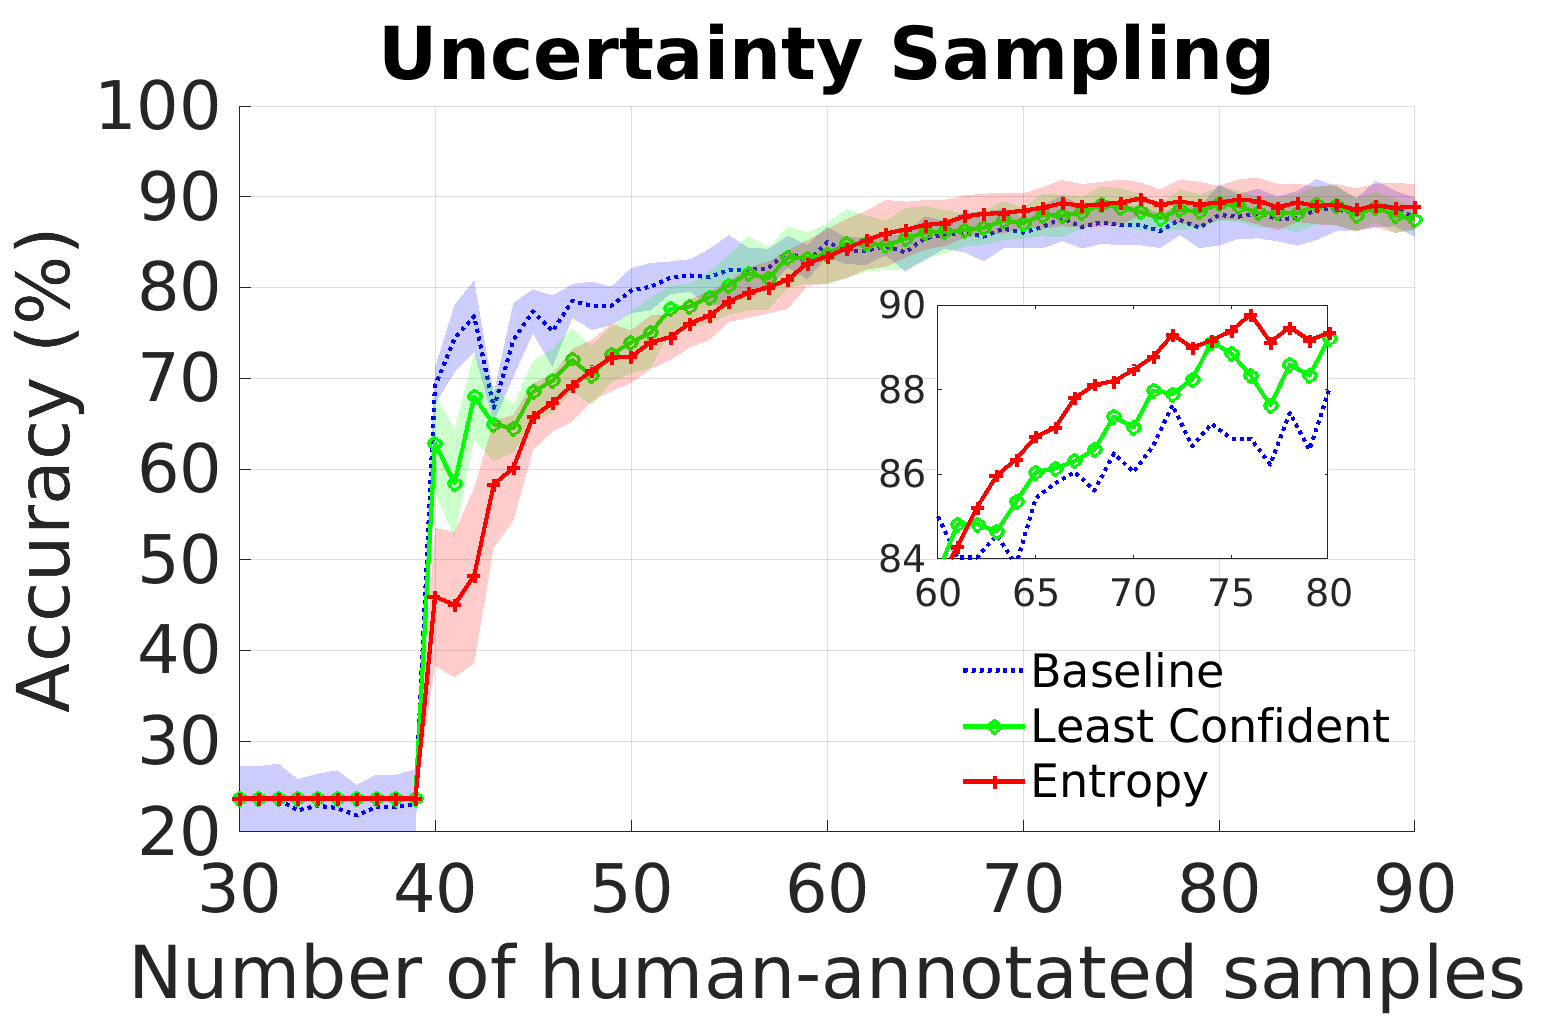
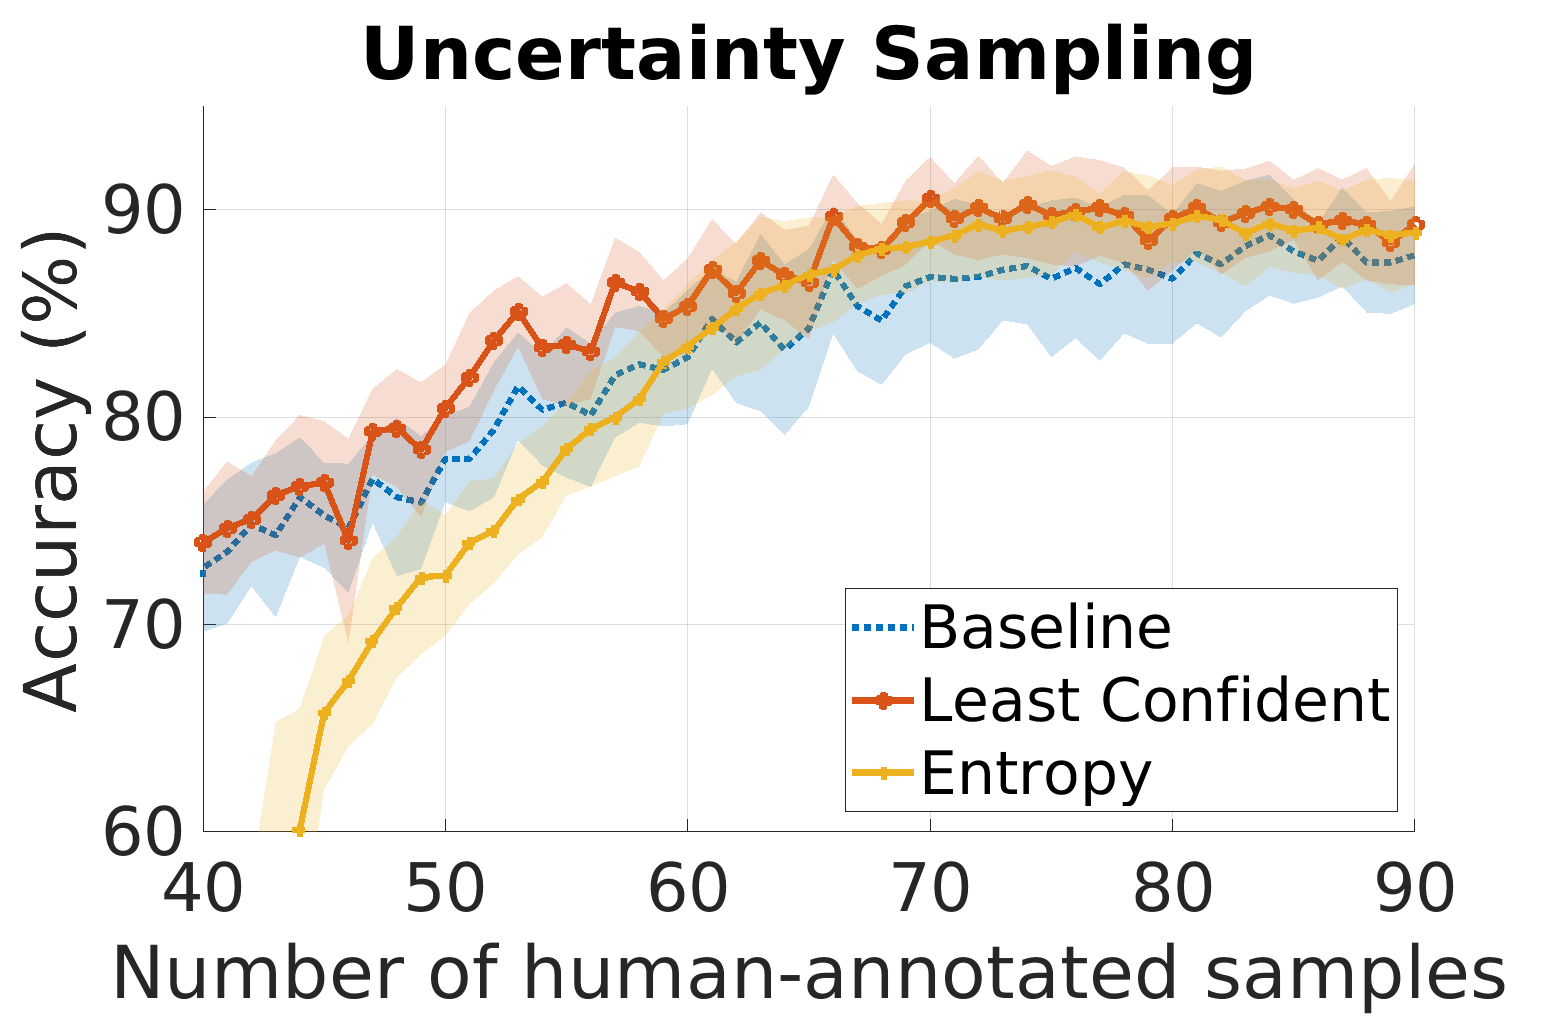
Plasma random, least confident, entropy, done!

diff --git a/Matlab/uncertainty.m b/Matlab/uncertainty.m
@@ -29,11 +29,7 @@ set(gcf, 'position', [500, 500, 1000, 650])
 
 x = 11:90;
 
-cMap = [
-0, 0, 1
-0, 1, 0
-1, 0, 0
-1, 0, 1];
+cMap = lines(length(fields));
 
 
 for k = 1:numel(fields)
@@ -44,7 +40,7 @@ for k = 1:numel(fields)
     aline(k) = stdshade(data, 0.2, cMap(k, :));
     aline(k).LineStyle = my_line_style{k};
     aline(k).Marker = my_marker{k};
-    aline(k).LineWidth = 2;
+    aline(k).LineWidth = 3;
 
     mean_data = mean(data);
     
@@ -54,32 +50,32 @@ for k = 1:numel(fields)
      
 end
 
-hleg = legend(aline, my_legend, 'location', 'southeast', 'fontsize', 22);
-set(hleg, 'box', 'off')
+hleg = legend(aline, my_legend, 'location', 'southeast');
+%set(hleg, 'box', 'off')
 
 set(gca, 'fontsize', 32, 'ygrid', 'on', 'xgrid', 'on')
-xlim([30, 90])
-ylim([20, 100])
+xlim([40, 90])
+ylim([60, 95])
 xlabel('Number of human-annotated samples')
 ylabel('Accuracy (%)')
 xticks(10:10:90)
 yticks(20:10:100)
 title('Uncertainty Sampling')
 
-axes('Position', [0.6, 0.45, 0.25, 0.25])
-box on, hold on
-
-for i_row = 1:size(all_data, 1)
-    data = all_data(i_row, 11:end);
-    std_err = all_std(i_row, 11:end);
-    indexOfInterest = (x >= 60) & (x <= 80);
-    plot(x(indexOfInterest), data(indexOfInterest), line_spec{i_row}, 'linewidth', 2, 'color', cMap(i_row, :))
-    % errorbar(x(indexOfInterest), 100 * data(indexOfInterest), 100 * std_err(indexOfInterest), line_spec{i_row}, 'linewidth', 2)
-end
-set(gca, 'fontsize', 18)
-xticks([60:5:80])
-ylim([84, 90])
-yticks([84:2:90])
+% axes('Position', [0.6, 0.45, 0.25, 0.25])
+% box on, hold on
+% 
+% for i_row = 1:size(all_data, 1)
+%     data = all_data(i_row, 11:end);
+%     std_err = all_std(i_row, 11:end);
+%     indexOfInterest = (x >= 60) & (x <= 80);
+%     plot(x(indexOfInterest), data(indexOfInterest), line_spec{i_row}, 'linewidth', 2, 'color', cMap(i_row, :))
+%     % errorbar(x(indexOfInterest), 100 * data(indexOfInterest), 100 * std_err(indexOfInterest), line_spec{i_row}, 'linewidth', 2)
+% end
+% set(gca, 'fontsize', 18)
+% xticks([60:5:80])
+% ylim([84, 90])
+% yticks([84:2:90])
 hold off
 
 saveas(gcf, './Image/uncertainty.png')

diff --git a/Python/Hyper_Parameter/Hyper_Parameter_Init.py b/Python/Hyper_Parameter/Hyper_Parameter_Init.py
@@ -47,29 +47,22 @@ class MyObjective_InitParam(object):
         }
 
         train_idx = np.arange(len(self.train_set))
+        train_idx = np.random.permutation(train_idx)
 
-        train_idx_set = set(train_idx)
-
-        train_idx_run = np.random.choice(train_idx, self.n_data)
-
-        train_set_run = self.train_set.iloc[train_idx_run]
+        train_set_run = self.train_set.iloc[train_idx]
         train_set_run.reset_index(drop=True, inplace=True)
 
-        target_run = self.target[train_idx_run]
+        target_run = self.target[train_idx]
 
         folds = KFold(n_splits=self.n_fold, shuffle=True)
         pred = np.zeros([len(train_set_run), self.num_class])
 
         for fold_, (train_idx_, val_idx_) in enumerate(folds.split(train_set_run.values, target_run)):
 
-            train_idx_fold_set = set(train_idx_)
-            valid_idx_fold_set = train_idx_set.difference(train_idx_fold_set)
-            valid_idx = list(valid_idx_fold_set)
+            train_idx_ = train_idx_[:self.n_data]
 
             train_data = lgb.Dataset(train_set_run.iloc[train_idx_], label=target_run[train_idx_])
-
-            # use all the remaining for validation
-            val_data = lgb.Dataset(train_set_run.iloc[valid_idx], label=target_run[valid_idx])
+            val_data = lgb.Dataset(train_set_run.iloc[val_idx_], label=target_run[val_idx_])
 
             pruning_callback = optuna.integration.LightGBMPruningCallback(trial, "multi_logloss")
             gbm = lgb.train(self.param, train_data, valid_sets=[val_data], verbose_eval=False, callbacks=[pruning_callback])

diff --git a/Python/active_learning.py b/Python/active_learning.py
@@ -44,7 +44,7 @@ dire = "../data/PAW FTIR data/"
 n_fold = 5
 
 # do not change
-start_n_sample = 20
+start_n_sample = 40
 end_n_sample = 90
 # end_n_sample - end_n_train for optuna
 
@@ -148,7 +148,7 @@ def run_cv(train_set, target):
             queried_index_set.add(sample_index)
 
     for i_pred in range(len(preds)):
-        if i_pred < start_n_sample:
+        if i_pred < start_n_sample - 1:
             continue
         pred_label = np.argmax(preds[i_pred], axis=1)
         accuracy = np.sum(pred_label == target) / len(target)

diff --git a/Python/Hyper_Parameter/hyper_paramter_init.py b/Python/Hyper_Parameter/hyper_paramter_init.py
@@ -29,7 +29,7 @@ dire = "../../data/PAW FTIR data/"
 n_fold = 5
 
 # do not change
-start_n_sample = 20
+start_n_sample = 30
 end_n_sample = 90
 
 
@@ -95,7 +95,7 @@ for i_size in range(start_n_sample, end_n_sample+1):
 
     print("------ ", i_size, my_objective.best_accuracy)
 
-with open("./Hyper_Parameter/params.pkl", "wb") as f:
+with open("./params.pkl", "wb") as f:
     pickle.dump(result_hyper, f)
 
 

diff --git a/README.md b/README.md
@@ -22,7 +22,7 @@ Reducing the number of **human-labeled** samples, while keeping accuracy of the 
 
 *   Optuna is used to determine the hyper-parameters for each size of samples
 
-*   Initial model is trained using 20 random samples
+*   Initial model is trained using 30 random samples
 
 *   5-fold cross-validation
 
@@ -30,29 +30,31 @@ Reducing the number of **human-labeled** samples, while keeping accuracy of the 
 
 ### Plasma
 
-1.  Use optuna to get hyper-parameters. `Python/Hyper_Parameter/hyper_parameter_init.py`. Results are saved to `Python/Hyper_Parameter/params.pkl` [Error]
+1.  Use optuna to get hyper-parameters for data size from [30, 90]. Each size's hyper-parameter is obtained by 30 trials. Run `Python/Hyper_Parameter/hyper_parameter_init.py`. Results are saved to `Python/Hyper_Parameter/params.pkl`
 
 2.  Run active learning algorithms. See Section Active Learning below.
 
 ### EEM
 
+## Random Sampling
+
+We use random sampling as the baseline.
+
+1.  Plasma. Run `Python/active_learning.py random`. Reults are saved to `Result/random.csv`
+
+2. EEM.
 
 ## Active Learning
 
-### Uncertainty based
+### Least Confident
 
-- Least Confident
-- Margin
-- Entropy
+1.  Plasma. Run `Python/active_learning.py uncertainty_leastConfident`. Results are saved to `Result/uncertainty_leastConfident.csv`.
 
-### Information Density
+2.  EEM.
 
+### Entropy
 
-- Informativenss: [Least Confident | Margin | Entropy]
-- Representativeness: [Cosine Similarity | Euclidean Distance | Pearson Similarity]
-- Importance Ratio <img src="https://bit.ly/2SA9n8Y" align="center" border="0" alt="\beta" width="17" height="19" />:   [0.5, 1, 2]
-
-
+1.  Plasma. Run `Python/active_learning.py uncertainty_entropy`. Results are saved to `Result/uncertainty_entropy.csv`.
 
 
 ### Minimizing Expected Error
@@ -61,3 +63,7 @@ Reducing the number of **human-labeled** samples, while keeping accuracy of the 
 
 
 ## Combine Active Learning and Semi-supervised Learning
+
+## Result Analysis and Visualization
+
+Under `Matlab` directory.
